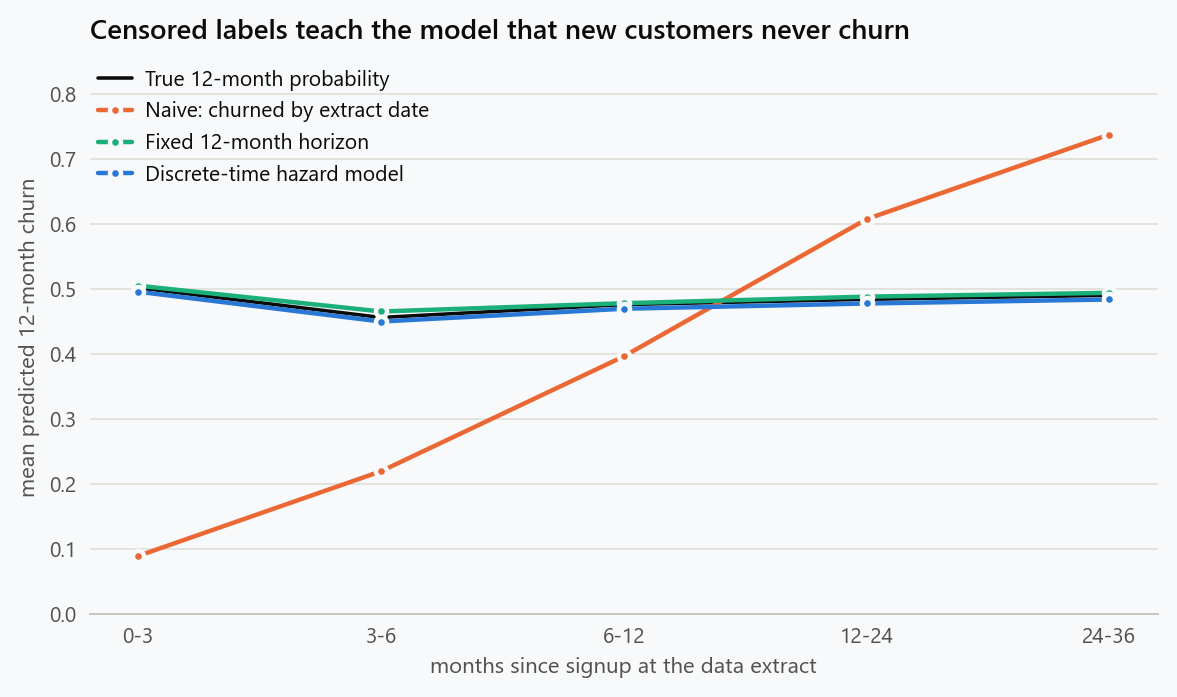
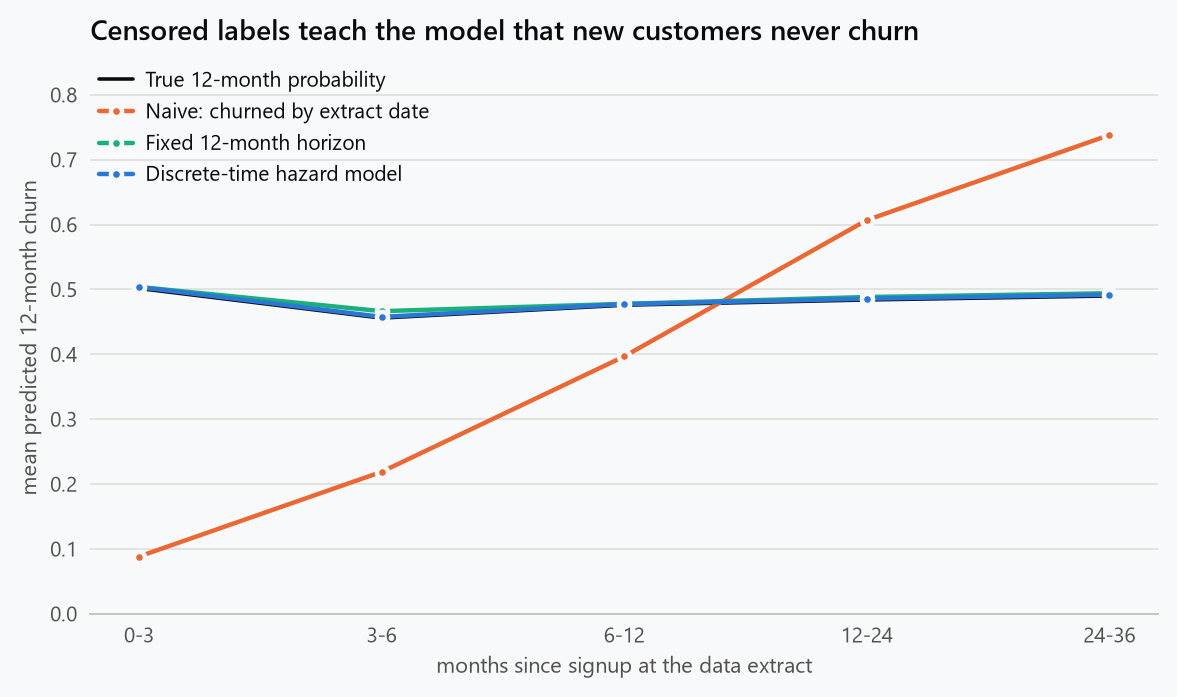
Censored labels: count only fully observed months in the hazard rows

diff --git a/_posts/machine_learning/2026-02-01-censored_labels_supervised_learning.md b/_posts/machine_learning/2026-02-01-censored_labels_supervised_learning.md
@@ -109,14 +109,15 @@ fixed = HistGradientBoostingClassifier(max_iter=200, learning_rate=0.05,
                                        random_state=0).fit(Xf[tr & full], event12[tr & full])
 p_fixed = fixed.predict_proba(Xf[test])[:, 1]
 
-# discrete-time hazard: one row per customer-month up to min(churn, follow-up, 12)
+# discrete-time hazard: one row per customer-month observed to its end,
+# up to the month of churn or month 12
 def person_months(idx):
     rows, ys = [], []
     for i in idx:
-        last = int(np.ceil(min(T[i], followup[i], H)))
-        for m in range(1, max(last, 1) + 1):
+        last = min(int(np.ceil(T[i])), int(followup[i]), H)   # int() keeps complete months only
+        for m in range(1, last + 1):
             rows.append((x1[i], x2[i], m))
-            ys.append(int(T[i] <= m and T[i] > m - 1 and m <= followup[i] + 1e-9))
+            ys.append(int(T[i] <= m))                         # churned in month m
     return np.array(rows), np.array(ys)
 
 def design(rows):
@@ -137,7 +138,7 @@ def p12_hazard(idx):
 p_haz = p12_hazard(np.where(test)[0])
 ```
 
-The fixed-horizon model changes the label to what the business asked for and drops every customer who cannot yet have that label. The hazard model changes the unit of analysis instead: one row per customer per month, a binary outcome of churning in that month, and a month effect, so that a customer with four months of follow-up contributes four rows and then stops without being called a negative. The twelve-month probability is one minus the product of twelve monthly survival probabilities.
+The fixed-horizon model changes the label to what the business asked for and drops every customer who cannot yet have that label. The hazard model changes the unit of analysis instead: one row per customer per month, a binary outcome of churning in that month, and a month effect, so that a customer with four months of follow-up contributes four rows and then stops without being called a negative. A month enters only once the customer has been observed to its end, so the month in which the extract falls is left out whatever happened in it: counting it as survived would pull every monthly hazard down, and keeping only the churns in it would push them up. The twelve-month probability is one minus the product of twelve monthly survival probabilities.
 
 ```python
 ten = followup[test]
@@ -151,11 +152,11 @@ for lo, hi in bins:
 
 | Months since signup | Customers | True 12-month churn | Naive | Fixed horizon | Hazard |
 | --- | --- | --- | --- | --- | --- |
-| 0 to 3 | 410 | 0.501 | 0.089 | 0.505 | 0.495 |
-| 3 to 6 | 415 | 0.456 | 0.219 | 0.465 | 0.450 |
-| 6 to 12 | 890 | 0.476 | 0.396 | 0.478 | 0.469 |
-| 12 to 24 | 1,700 | 0.484 | 0.607 | 0.488 | 0.477 |
-| 24 to 36 | 1,633 | 0.490 | 0.737 | 0.494 | 0.483 |
+| 0 to 3 | 410 | 0.501 | 0.089 | 0.505 | 0.504 |
+| 3 to 6 | 415 | 0.456 | 0.219 | 0.465 | 0.458 |
+| 6 to 12 | 890 | 0.476 | 0.396 | 0.478 | 0.477 |
+| 12 to 24 | 1,700 | 0.484 | 0.607 | 0.488 | 0.486 |
+| 24 to 36 | 1,633 | 0.490 | 0.737 | 0.494 | 0.492 |
 
 ![Mean predicted twelve-month churn probability by months since signup, for held-out customers, from three models trained on the same extract. The naive model, trained on whether a customer had churned by the extract date, predicts almost no risk for recent customers and too much for old ones. A fixed-horizon label and a discrete-time hazard model both track the true probability.](/assets/images/figures/censored_labels_cohorts.png){: width="1152" height="672" loading="lazy"}
 
@@ -177,7 +178,7 @@ print("brand-new customer with average features: naive",
 | --- | --- | --- |
 | Naive | 0.764 | 0.193 |
 | Fixed horizon | 0.839 | 0.051 |
-| Hazard | 0.849 | 0.007 |
+| Hazard | 0.849 | 0.006 |
 
 The naive model's AUC against its own labels is 0.896. Against the outcome the business asked about it is 0.764, and its probabilities are off by 19 points on average. For a brand-new customer with average features it predicts a churn probability of 0.006 against a true value of 0.446, a factor of about seventy. None of this is visible from inside the pipeline: the training labels, the validation labels and the test labels all have the same censoring, so every metric the pipeline computes agrees that the model is excellent.
 
@@ -185,7 +186,7 @@ The gap between the fixed-horizon and hazard models in the last table is partly 
 
 ## The Feature That Leaks Time
 
-Tenure at extract did the damage in the naive model, and removing it does not undo it. Without tenure, the model can no longer express the bias per cohort, so it averages it: the snapshot label's positive rate is 42 percent against a true twelve-month rate of 49 percent, and the model predicts around the lower figure for everyone. The label is still the wrong label. Tenure merely made the wrongness visible by cohort, and any other feature that moves with signup date, such as plan version, acquisition channel or number of orders, carries the same information more quietly.
+Tenure at extract did the damage in the naive model, and removing it does not undo it. Without tenure, the model can no longer express the bias per cohort, so it averages it: the average customer has been observed for eighteen months rather than twelve, the snapshot label's positive rate is 54 percent against a true twelve-month rate of 49 percent, and the model predicts around the higher figure whatever the tenure. The label is still the wrong label. Tenure merely made the wrongness visible by cohort, and any other feature that moves with signup date, such as plan version, acquisition channel or number of orders, carries the same information more quietly.
 
 There is a second, subtler version. Features measured at the extract, such as days since last login, are computed on a different clock for each customer. For a customer who churned a year ago, days since last login is enormous, and it is enormous *because* they churned, not before it. A feature computed after the event it is supposed to predict is a leak of the ordinary kind, and snapshot pipelines produce it by default. Features have to be computed as of the reference time the label is defined from, not as of the extract.
 
@@ -194,12 +195,12 @@ There is a second, subtler version. Features measured at the extract, such as da
 | Approach | Data used | Tooling | Output | Cost |
 | --- | --- | --- | --- | --- |
 | Fixed horizon | Customers observed at least $H$ | Any classifier | Probability of the event within $H$ | Discards recent cohorts; lags behind change |
-| Discrete-time hazard | Every customer, every observed period | Any classifier on person-period rows | Full curve; any horizon | Rows multiply; needs month effects |
+| Discrete-time hazard | Every customer, every fully observed period | Any classifier on person-period rows | Full curve; any horizon | Rows multiply; needs month effects |
 | Censoring weights | Every customer with a determinable label | Any classifier, with sample weights | Probability within $H$ | Needs a censoring model; noisy weights near the horizon |
 
 **Fixed horizon** is the smallest change. Define the label as the event within $H$ of a reference time, require follow-up of at least $H$, compute features as of the reference time, and train a classifier. It answers the business question exactly and needs no new tooling. Its cost is data: in the simulation, 5,014 of 14,952 training customers had less than twelve months of follow-up and were dropped, and they were the most recent ones, which are the ones most representative of current conditions.
 
-**Discrete-time hazard** keeps them. The 14,952 customers produced 115,084 customer-month rows, and a customer with four months of history contributed four rows to the estimation of the early hazards without being asked about the eighth month. The model is an ordinary classifier on ordinary rows, which means gradient boosting or a neural network can replace the logistic regression without changing the construction, and it produces the whole survival curve, so the twelve-month question and the three-month question come from one fit. Singer and Willett's account of this construction is the standard reference.
+**Discrete-time hazard** keeps them. The 14,952 customers produced 111,366 customer-month rows, and a customer with four months of history contributed four rows to the estimation of the early hazards without being asked about the eighth month. The model is an ordinary classifier on ordinary rows, which means gradient boosting or a neural network can replace the logistic regression without changing the construction, and it produces the whole survival curve, so the twelve-month question and the three-month question come from one fit. Singer and Willett's account of this construction is the standard reference.
 
 **Censoring weights** take a middle path. Each customer whose twelve-month label can be determined is kept, and weighted by the inverse of the probability of being observed that long, estimated from the censoring distribution. Customers observed for a long time stand in for the similar customers who were censored early. It keeps the classifier and the label unchanged and uses more of the data than the fixed horizon does, at the cost of a censoring model and of large weights where few customers were observed long enough.
 
